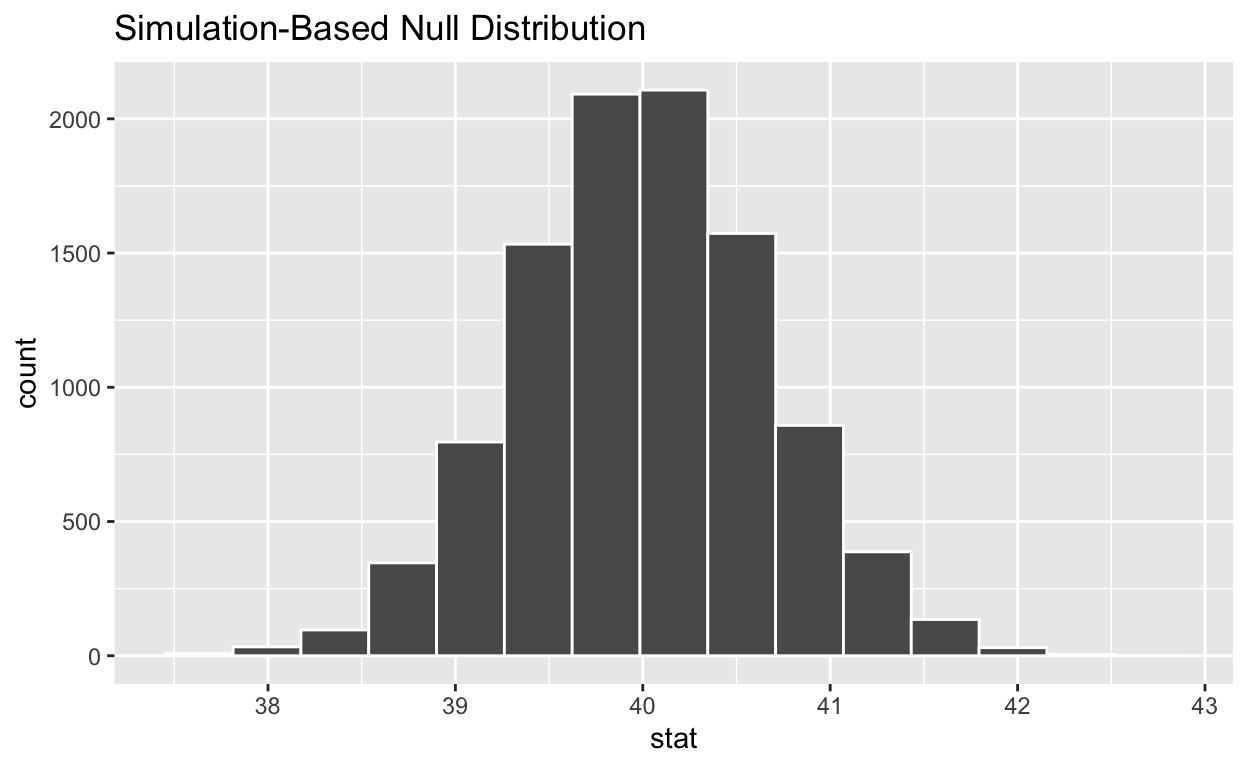
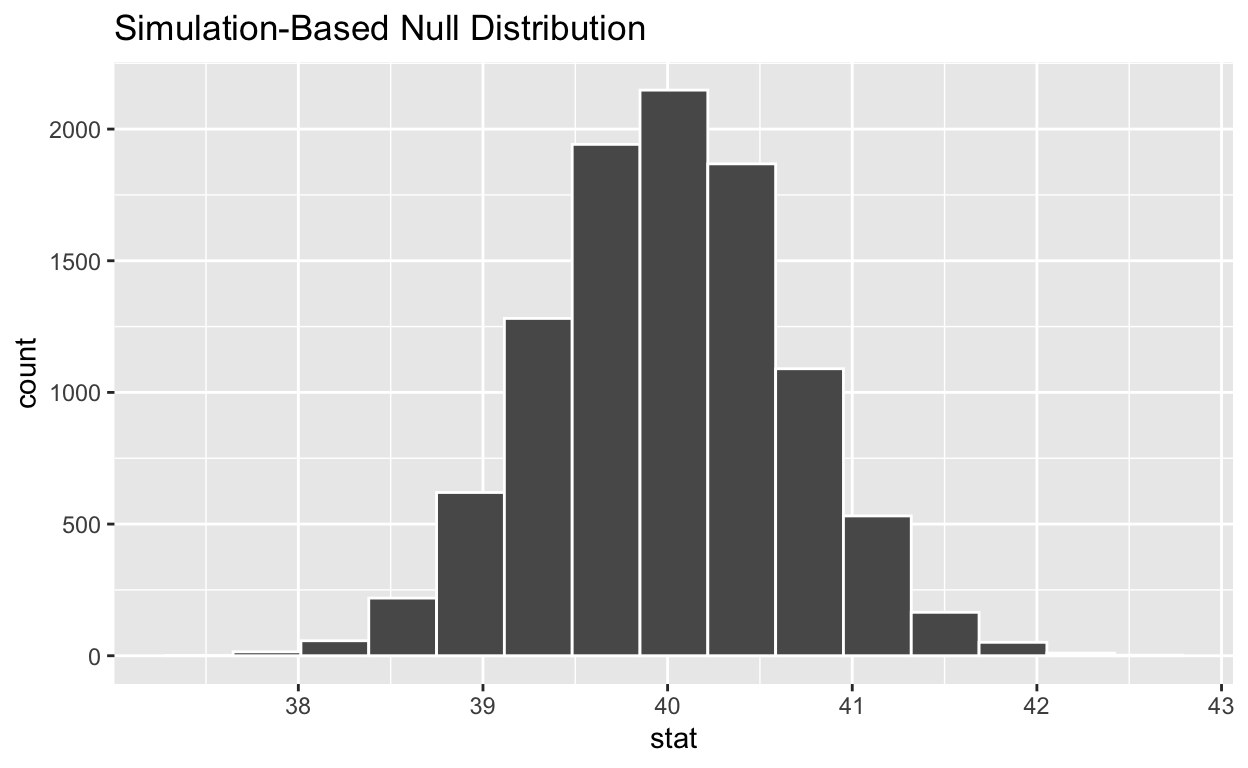
reknit, upload to shinyapps.io !

diff --git a/tutorial/infer.html b/tutorial/infer.html
@@ -122,7 +122,7 @@ $(document).ready(function () {
 <p>This tutorial assumes some background with hypothesis testing and base R. To read about the intuition behind hypothesis testing and the design of this package, see the <em>Introduction</em> section of <code>vignette(&quot;infer&quot;)</code>.</p>
 <div id="section-the-gss-dataset" class="section level3">
 <h3>The <code>gss</code> Dataset</h3>
-<p>Throughout this tutorial, we’ll make use of the <code>gss</code> dataset supplied by <code>infer</code>, containing a sample of 3000 observations of 11 variables from the <em>General Social Survey</em>. Print the <code>gss</code> dataset to check it out!</p>
+<p>Throughout this tutorial, we’ll make use of the <code>gss</code> dataset supplied by <code>infer</code>, containing a sample of 500 observations of 11 variables from the <em>General Social Survey</em>. Print the <code>gss</code> dataset to check it out!</p>
 <div class="tutorial-exercise" data-label="gss" data-caption="Code" data-completion="1" data-diagnostics="1" data-startover="1" data-lines="0">
 <pre class="text"><code># check out the `gss` dataset</code></pre>
 <script type="application/json" data-opts-chunk="1">{"fig.width":6.5,"fig.height":4,"fig.retina":2,"fig.align":"default","fig.keep":"high","fig.show":"asis","out.width":624,"warning":true,"error":false,"message":true,"exercise.df_print":"default","exercise.timelimit":60,"exercise.checker":["function (label = NULL, solution_code = NULL, user_code = NULL, ","    check_code = NULL, envir_result = NULL, evaluate_result = NULL, ","    envir_prep = NULL, last_value = NULL, ...) ","{","    if (is.null(user_code)) {","        return(list(message = \"I didn't receive your code. Did you write any?\", ","            correct = FALSE, type = \"error\", location = \"append\"))","    }","    else {","        user_code <- parse(text = user_code)","        if (length(user_code) == 0) {","            return(list(message = \"I didn't receive your code. Did you write any?\", ","                correct = FALSE, type = \"error\", location = \"append\"))","        }","    }","    if (!is.null(solution_code)) {","        solution_code <- parse(text = solution_code)","        if (length(solution_code) == 0) {","            return(list(message = \"No solution is provided for this exercise.\", ","                correct = TRUE, type = \"info\", location = \"append\"))","        }","    }","    had_error_checking <- FALSE","    checked_result <- tryCatch({","        parsed_check_code <- parse(text = check_code)","        if (length(parsed_check_code) > 1) {","            for (i in 1:(length(parsed_check_code) - 1)) {","                eval(parsed_check_code[[i]], envir_prep)","            }","        }","        grading_code <- rlang::call_standardise(parsed_check_code[[length(parsed_check_code)]], ","            envir_prep)","        grader_args <- list(user_quo = rlang::as_quosure(user_code[[length(user_code)]], ","            envir_result))","        if (!is.null(solution_code)) {","            grader_args$solution_quo <- rlang::as_quosure(solution_code[[length(solution_code)]], ","                envir_prep)","        }","        learnr_args <- list(...)","        learnr_args$label <- label","        learnr_args$solution_code <- solution_code","        learnr_args$user_code <- user_code","        learnr_args$check_code <- check_code","        learnr_args$envir_result <- envir_result","        learnr_args$evaluate_result <- evaluate_result","        learnr_args$envir_prep <- envir_prep","        learnr_args$last_value <- last_value","        grading_code$grader_args <- grader_args","        grading_code$learnr_args <- learnr_args","        envir_prep$ans <- grader_args$user","        eval(grading_code, envir_prep)","    }, error = function(e) {","        message(\"\", e)","        had_error_checking <<- TRUE","        graded(correct = FALSE, message = \"Error occured while checking the submission\")","    })","    if (!checkmate::test_class(checked_result, \"grader_graded\")) {","        stop(\"`grade_learnr` should receive a `graded` value from every `-check` chunk\")","    }","    message_type <- if (had_error_checking) {","        \"warning\"","    }","    else {","        if (checked_result$correct) {","            \"success\"","        }","        else {","            \"error\"","        }","    }","    ret <- list(message = checked_result$message, correct = checked_result$correct, ","        type = message_type, location = \"append\")","    ret","}"]}</script>
@@ -393,16 +393,16 @@ gss %&gt;%
 <pre><code>## # A tibble: 1,000 x 2
 ##    replicate  stat
 ##        &lt;int&gt; &lt;dbl&gt;
-##  1         1  39.8
-##  2         2  40.6
-##  3         3  39.8
-##  4         4  40.1
-##  5         5  39.7
-##  6         6  40.4
-##  7         7  39.6
-##  8         8  40.4
-##  9         9  39.6
-## 10        10  39.1
+##  1         1  39.3
+##  2         2  39.8
+##  3         3  41.1
+##  4         4  40.5
+##  5         5  38.9
+##  6         6  40.7
+##  7         7  39.9
+##  8         8  39.8
+##  9         9  39.2
+## 10        10  40.6
 ## # … with 990 more rows</code></pre>
 <p>The output of <code>calculate()</code> here shows us the sample statistic (in this case, the mean) for each of our 1000 replicates.</p>
 <div id="section-exercise-2" class="section level3">
@@ -445,18 +445,18 @@ gss %&gt;%
   generate(reps = 1000, type = &quot;permute&quot;) %&gt;%
   calculate(&quot;diff in means&quot;, order = c(&quot;degree&quot;, &quot;no degree&quot;))</code></pre>
 <pre><code>## # A tibble: 1,000 x 2
-##    replicate    stat
-##        &lt;int&gt;   &lt;dbl&gt;
-##  1         1  2.08  
-##  2         2 -1.69  
-##  3         3 -0.0113
-##  4         4  0.368 
-##  5         5  1.80  
-##  6         6 -3.14  
-##  7         7 -0.531 
-##  8         8 -2.05  
-##  9         9 -2.53  
-## 10        10 -1.37  
+##    replicate   stat
+##        &lt;int&gt;  &lt;dbl&gt;
+##  1         1  0.518
+##  2         2 -1.24 
+##  3         3 -1.11 
+##  4         4  1.28 
+##  5         5 -1.02 
+##  6         6 -0.787
+##  7         7  0.271
+##  8         8  1.41 
+##  9         9  1.17 
+## 10        10  1.77 
 ## # … with 990 more rows</code></pre>
 </div>
 <div id="section-exercise-3" class="section level3">
@@ -597,8 +597,8 @@ p_value</code></pre>
 <pre><code>## # A tibble: 1 x 1
 ##   p_value
 ##     &lt;dbl&gt;
-## 1  0.0396</code></pre>
-<p>It looks like the p-value is 0.0396, which is pretty small—if the true mean number of hours worked per week was actually 40, the probability of our sample mean being this far (1.382 hours) from 40 would be 0.0396. This may or may not be statistically significantly different, depending on the significance level <span class="math inline">\(\alpha\)</span> you decided on <em>before</em> you ran this analysis. If you had set <span class="math inline">\(\alpha = .05\)</span>, then this difference would be statistically significant, but if you had set <span class="math inline">\(\alpha = .01\)</span>, then it would not be.</p>
+## 1  0.0364</code></pre>
+<p>It looks like the p-value is 0.0364, which is pretty small—if the true mean number of hours worked per week was actually 40, the probability of our sample mean being this far (1.382 hours) from 40 would be 0.0364. This may or may not be statistically significantly different, depending on the significance level <span class="math inline">\(\alpha\)</span> you decided on <em>before</em> you ran this analysis. If you had set <span class="math inline">\(\alpha = .05\)</span>, then this difference would be statistically significant, but if you had set <span class="math inline">\(\alpha = .01\)</span>, then it would not be.</p>
 <p>To get a confidence interval around our estimate, we can write:</p>
 <pre class="r"><code># start with the null distribution
 null_dist %&gt;%
